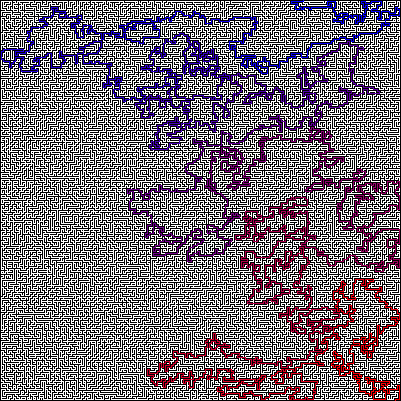
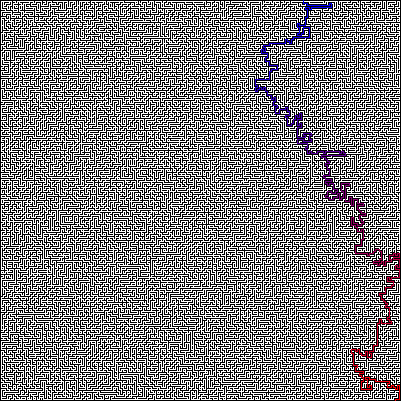
Reprioritized depthfirst.py to down, right, left, up

diff --git a/Algorithms/depthfirst.py b/Algorithms/depthfirst.py
@@ -21,7 +21,13 @@ def solve(maze):
             break
 
         # neighbours = reversed([x for x in current.Neighbours if x is not None and x not in visited and x not in stack])
-        neighbours = reversed([x for x in current.Neighbours.values() if x not in visited and x not in stack])
+        # neighbours = reversed([x for x in current.Neighbours.values() if x not in visited and x not in stack])
+        # neighbours = reversed([current.Neighbours[x] for x in sorted(current.Neighbours) if current.Neighbours[x] not in visited and current.Neighbours[x] not in stack])
+        order = ['down', 'right', 'left', 'up']
+        neighbours = reversed(
+            [current.Neighbours[x] for x in sorted(current.Neighbours, key=lambda i: order.index(i)) if
+             current.Neighbours[x] not in visited and current.Neighbours[x] not in stack])
+
         for x in neighbours:
             x.Previous = current
             stack.append(x)
